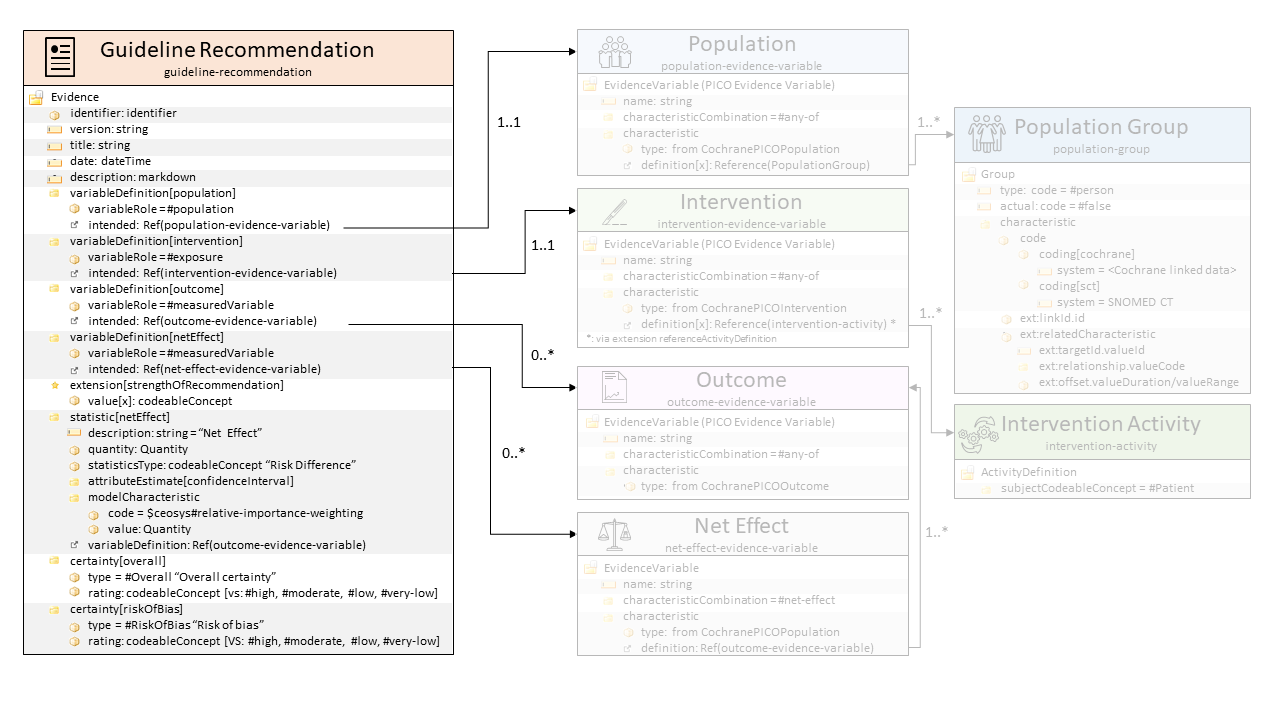
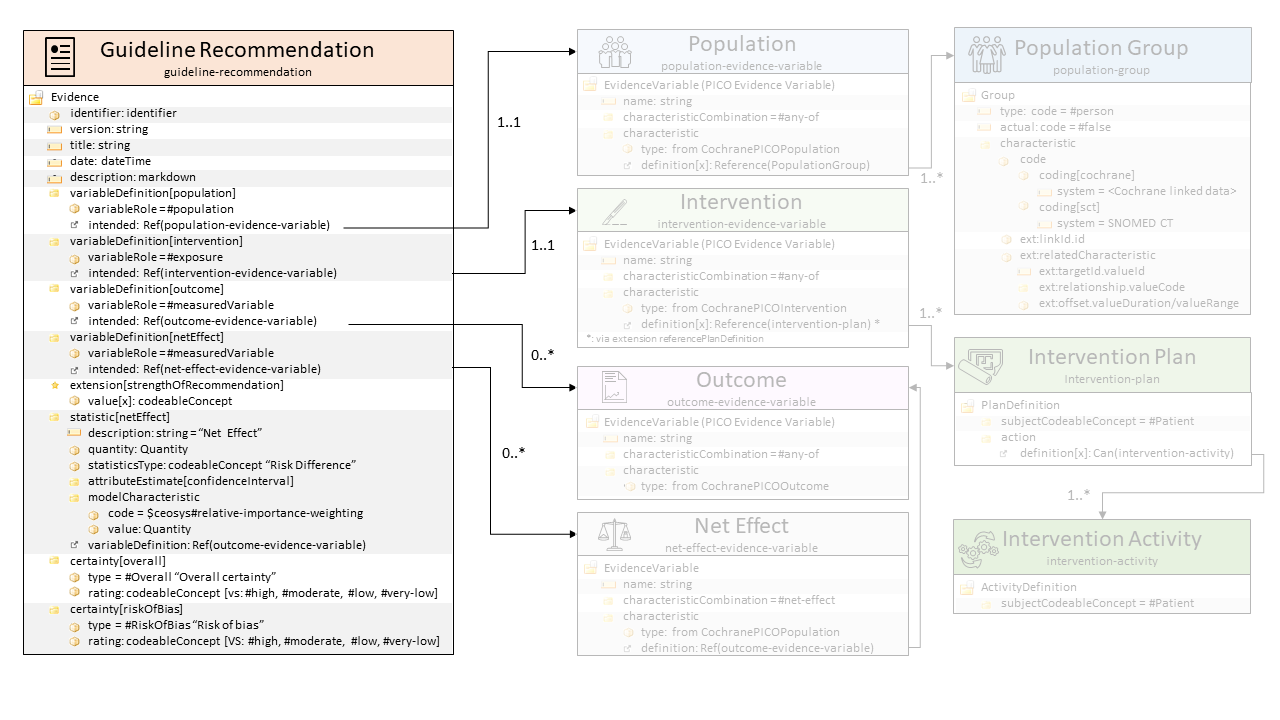
updated images

Changed region(s): [[0.7188, 0.0306, 1.0, 0.8556], [0.6562, 0.4278, 0.6875, 0.4583], [0.5625, 0.4583, 0.5938, 0.4889]]

diff --git a/input/includes/fhir-structure-overview.md b/input/includes/fhir-structure-overview.md
@@ -2,13 +2,14 @@
 <img src="fhir-structure-overview.png" usemap="#image-map-fhir-structure-overview" alt="FHIR Structure Overview" style="width:100%;" />
 
 <map name="image-map-fhir-structure-overview">
-    <area target="_self" alt="Guideline" title="Guideline" href="StructureDefinition-guideline.html" coords="450,52,832,138" shape="rect">
-    <area target="_self" alt="Guideline Recommendation" title="Guideline Recommendation" href="StructureDefinition-guideline-recommendation.html" coords="449,184,832,267" shape="rect">
-    <area target="_self" alt="Population" title="Population" href="StructureDefinition-population-evidence-variable.html" coords="72,341,345,424" shape="rect">
-    <area target="_self" alt="Intervention" title="Intervention" href="StructureDefinition-intervention-evidence-variable.html" coords="369,344,641,423" shape="rect">
-    <area target="_self" alt="Outcome" title="Outcome" href="StructureDefinition-outcome-evidence-variable.html" coords="665,346,935,424" shape="rect">
-    <area target="_self" alt="Net Effect" title="Net Effect" href="StructureDefinition-net-effect-evidence-variable.html" coords="959,344,1233,422" shape="rect">
-    <area target="_self" alt="Population Group" title="Population Group" href="StructureDefinition-population-group.html" coords="72,489,345,571" shape="rect">
-    <area target="_self" alt="Intervention Activity" title="Intervention Activity" href="StructureDefinition-intervention-activity.html" coords="366,489,641,572" shape="rect">
-    <area target="_self" alt="Guideline Bundle" title="Guideline Bundle" href="StructureDefinition-guideline-bundle.html" coords="461,619,842,705" shape="rect">
+    <area target="_self" alt="Guideline" title="Guideline" href="StructureDefinition-guideline.html" coords="451,15,832,96" shape="rect">
+    <area target="_self" alt="Guideline Recommendation" title="Guideline Recommendation" href="StructureDefinition-guideline-recommendation.html" coords="449,131,832,214" shape="rect">
+    <area target="_self" alt="Population" title="Population" href="StructureDefinition-population-evidence-variable.html" coords="74,263,345,342" shape="rect">
+    <area target="_self" alt="Intervention" title="Intervention" href="StructureDefinition-intervention-evidence-variable.html" coords="368,263,641,344" shape="rect">
+    <area target="_self" alt="Outcome" title="Outcome" href="StructureDefinition-outcome-evidence-variable.html" coords="664,263,937,344" shape="rect">
+    <area target="_self" alt="Net Effect" title="Net Effect" href="StructureDefinition-net-effect-evidence-variable.html" coords="961,266,1231,345" shape="rect">
+    <area target="_self" alt="Population Group" title="Population Group" href="StructureDefinition-population-group.html" coords="73,378,347,461" shape="rect">
+    <area target="_self" alt="Intervention Plan" title="Intervention Plan" href="StructureDefinition-intervention-plan.html" coords="367,380,639,460" shape="rect">
+    <area target="_self" alt="Intervention Activity" title="Intervention Activity" href="StructureDefinition-intervention-activity.html" coords="368,494,642,575" shape="rect">
+    <area target="_self" alt="Guideline Bundle" title="Guideline Bundle" href="StructureDefinition-guideline-bundle.html" coords="461,619,842,704" shape="rect">
 </map>

diff --git a/input/includes/link-list.md b/input/includes/link-list.md
@@ -3,6 +3,7 @@
 [Guideline Recommendation]: StructureDefinition-guideline-recommendation.html
 [Intervention Activity]: StructureDefinition-intervention-activity.html
 [Intervention]: StructureDefinition-intervention-evidence-variable.html
+[Intervention Plan]: StructureDefinition-intervention-plan.html
 [Net Effect]: StructureDefinition-net-effect-evidence-variable.html
 [Outcome]: StructureDefinition-outcome-evidence-variable.html
 [PICO Evidence Variable]: StructureDefinition-pico-evidence-variable.html
@@ -11,14 +12,14 @@
 [Composition Publication Status]: StructureDefinition-ceosys-extension-composition-publication-status.html
 [Composition Version]: StructureDefinition-ceosys-extension-composition-version.html
 [Group Characteristic Link Id]: StructureDefinition-group-characteristic-link-id.html
-[Reference Activity Definition]: StructureDefinition-ceosys-extension-reference-activity-definition.html
+[Reference Plan Definition]: StructureDefinition-ceosys-extension-reference-plan-definition.html
 [Related Characteristic]: StructureDefinition-related-characteristic.html
 
 [CEOsys Code System]: CodeSystem-ceosys-code-system.html
-[CS Characteristic Relationship Type]: CodeSystem-characteristic-relationship-type.html
+[Characteristic Relationship Type]: CodeSystem-characteristic-relationship-type.html
 [Cochrane Core Ontology]: CodeSystem-cochrane-core-ontology.html
 [Cochrane PICO Ontology]: CodeSystem-cochrane-pico-ontology.html
-[CS Recommendation Strength]: CodeSystem-ceosys-cs-recommendation-strength.html
+[Recommendation Strength]: CodeSystem-ceosys-cs-recommendation-strength.html
 
 [VS Characteristic Relationship Type]: ValueSet-characteristic-relationship-type.html
 [VS Cochrane PICO]: ValueSet-cochrane-pico.html

diff --git a/input/includes/fhir-structure-detailed.md b/input/includes/fhir-structure-detailed.md
@@ -7,6 +7,7 @@
     <area target="_self" alt="Intervention" title="Intervention" href="StructureDefinition-intervention-evidence-variable.html" coords="578,189,909,348" shape="rect">
     <area target="_self" alt="Outcome" title="Outcome" href="StructureDefinition-outcome-evidence-variable.html" coords="578,366,908,500" shape="rect">
     <area target="_self" alt="Net Effect" title="Net Effect" href="StructureDefinition-net-effect-evidence-variable.html" coords="579,513,909,657" shape="rect">
-    <area target="_self" alt="Population Group" title="Population Group" href="StructureDefinition-population-group.html" coords="955,106,1251,396" shape="rect">
-    <area target="_self" alt="Intervention Activity" title="Intervention Activity" href="StructureDefinition-intervention-activity.html" coords="955,405,1252,498" shape="rect">
+    <area target="_self" alt="Population Group" title="Population Group" href="StructureDefinition-population-group.html" coords="954,27,1249,314" shape="rect">
+    <area target="_self" alt="Intervention Plan" title="Intervention Plan" href="StructureDefinition-intervention-plan.html" coords="955,338,1251,463" shape="rect">
+    <area target="_self" alt="Intervention Activity" title="Intervention Activity" href="StructureDefinition-intervention-activity.html" coords="953,520,1249,615" shape="rect">
 </map>

diff --git a/input/intro-notes/StructureDefinition-intervention-activity-intro.md b/input/intro-notes/StructureDefinition-intervention-activity-intro.md
@@ -5,15 +5,9 @@
 
 This profile defines a specific recommended activity as part of an [Intervention][Intervention] recommended by a specific [Guideline Recommendation][Guideline Recommendation].
 
-The characteristics of the patient group are coded using the `characteristic` field.
+The actions defined using htis profile are combined to a plan using the [Intervention Plan profile][Intervention Plan].
 
-| Field | Description |
-| ----- | ----------- |
-| `subjectCodeableConcept` | Fixed to `#patient` |
-{:.grid}
-
-
-{% include fhir-structure-detailed.md name='07-intervention-activity' alt='FHIR Intervention Activity' %}
+{% include fhir-structure-detailed.md name='08-intervention-activity' alt='FHIR Intervention Activity' %}
 
 {% capture resource_inheritance %}
 This profile of a FHIR {{resource.type}} is derived from the [{{resource.base | split: '/' | last}}]({{resource.base}}) FHIR resource.

diff --git a/input/intro-notes/StructureDefinition-ceosys-extension-reference-plan-definition-intro.md b/input/intro-notes/StructureDefinition-ceosys-extension-reference-plan-definition-intro.md
@@ -1,0 +1,15 @@
+{% assign id = {{include.id}} %}
+{% assign resource = site.data.structuredefinitions.[id] %}
+
+### Guidance
+
+This extension adds the possibility to reference an [PlanDefinition resource]({{ fhir_base_url }}plandefinition.html). It is used on `[EvidenceVariable]({{ fhir_base_url }}evidencevariable.html).characteristic.definitionReference`, as this currently ([FHIR 5.0.0-snapshot1](http://hl7.org/fhir/5.0.0-snapshot1/)) only allows to references to [Group]({{ fhir_base_url }}group.html) or [EvidenceVariable]({{ fhir_base_url }}evidencevariable.html).
+
+
+{% capture resource_inheritance %}
+This profile of a FHIR {{resource.type}} is derived from the [{{resource.base | split: '/' | last}}]({{resource.base}}) FHIR resource.
+{% endcapture %}
+
+{{ resource_inheritance | strip_newlines }}
+
+{% include link-list.md %}

diff --git a/input/intro-notes/StructureDefinition-intervention-plan-intro.md b/input/intro-notes/StructureDefinition-intervention-plan-intro.md
@@ -1,0 +1,19 @@
+{% assign id = {{include.id}} %}
+{% assign resource = site.data.structuredefinitions.[id] %}
+
+### Guidance
+
+This profile defines a specific recommended plan as part of an [Intervention][Intervention] recommended by a specific [Guideline Recommendation][Guideline Recommendation].
+
+The actions to be performed are specified using the [Intervention Activity profile][Intervention Activity].
+
+
+{% include fhir-structure-detailed.md name='07-intervention-plan' alt='FHIR Intervention Plan' %}
+
+{% capture resource_inheritance %}
+This profile of a FHIR {{resource.type}} is derived from the [{{resource.base | split: '/' | last}}]({{resource.base}}) FHIR resource.
+{% endcapture %}
+
+{{ resource_inheritance | strip_newlines }}
+
+{% include link-list.md %}

diff --git a/input/intro-notes/StructureDefinition-guideline-bundle-intro.md b/input/intro-notes/StructureDefinition-guideline-bundle-intro.md
@@ -16,7 +16,7 @@ This bundle is used to collect all resources of a specific clinical practice gui
   * [Net Effect][Net Effect]
   * [Outcome][Outcome]
 
-<img src="09-bundle.png" alt="FHIR Bundle" />
+<img src="10-bundle.png" alt="FHIR Bundle" />
 
 {% capture resource_inheritance %}
 This profile of a FHIR {{resource.type}} is derived from the [{{resource.base | split: '/' | last}}]({{resource.base}}) FHIR resource.

diff --git a/input/intro-notes/StructureDefinition-guideline-intro.md b/input/intro-notes/StructureDefinition-guideline-intro.md
@@ -7,7 +7,7 @@ This profile represents a single clinical practice guideline. It summarizes the 
 
 It thus provides a structured presentation of the whole guideline contents including the guideline metadata.
 
-<img src="08-guideline.png" alt="FHIR Guideline" />
+<img src="09-guideline.png" alt="FHIR Guideline" />
 
 
 {% capture resource_inheritance %}
